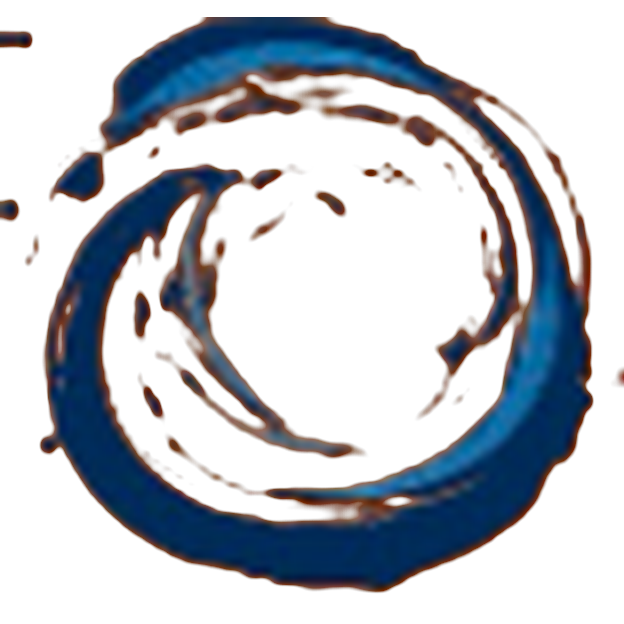
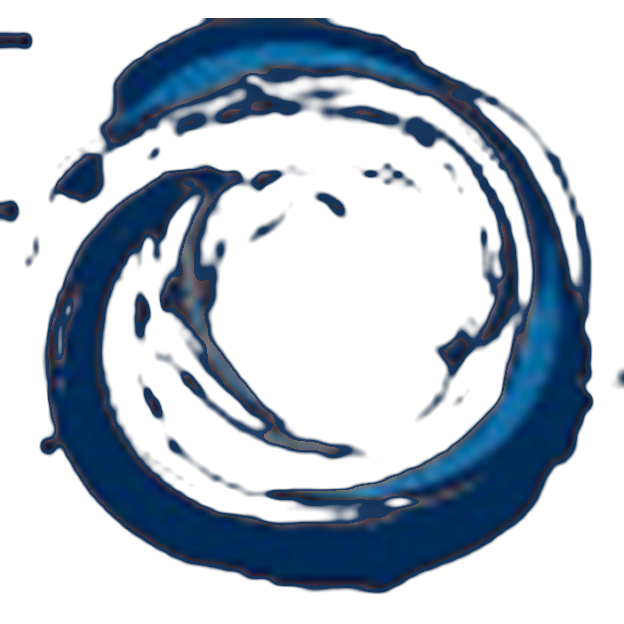
Spirale pulita (no alone arancione) + hero sempre visibile + caroselli
- Spirale ri-estratta senza frangia arancione: bordi navy puliti, nessun
  alone in caricamento e nell'hero (mantiene la texture reale)
- Hero: la spirale resta centrata e SEMPRE interamente visibile mentre ruota
  (non finisce più sotto la barra in alto); nome e CTA si rivelano sotto
- "In evidenza" e "Le categorie" ora sono caroselli a scorrimento infinito
  (direzioni opposte, pausa al hover)

diff --git a/src/app/page.tsx b/src/app/page.tsx
@@ -2,7 +2,8 @@ import Image from "next/image";
 import Link from "next/link";
 import { Reveal } from "@/components/Reveal";
 import { HeroScroll } from "@/components/HeroScroll";
-import { featuredWorks } from "@/lib/gallery";
+import { Marquee } from "@/components/Marquee";
+import { works } from "@/lib/gallery";
 import { categories, site } from "@/lib/site";
 import { blurFor } from "@/lib/blur";
 import { ParallaxImage } from "@/components/ParallaxImage";
@@ -33,9 +34,9 @@ export default function Home() {
         </Reveal>
       </section>
 
-      {/* ——— IN EVIDENZA ——— */}
-      <section className="wrap pb-8">
-        <Reveal className="mb-10 flex items-end justify-between gap-4">
+      {/* ——— IN EVIDENZA (carosello) ——— */}
+      <section className="overflow-hidden py-8">
+        <Reveal className="wrap mb-10 flex items-end justify-between gap-4">
           <div>
             <p className="eyebrow">Selezione</p>
             <h2 className="mt-2 font-display text-4xl text-ink sm:text-5xl">
@@ -44,95 +45,81 @@ export default function Home() {
           </div>
           <Link
             href="/portfolio"
-            className="link-underline hidden shrink-0 font-sans text-sm text-ink/80 hover:text-ink sm:block"
+            className="link-underline shrink-0 font-sans text-sm text-ink/80 hover:text-ink"
           >
             Tutte le opere →
           </Link>
         </Reveal>
 
-        <div className="grid grid-cols-2 gap-3 sm:gap-5 lg:grid-cols-4">
-          {featuredWorks.slice(0, 4).map((w, i) => (
-            <Reveal
+        <Marquee speed={70}>
+          {works.map((w) => (
+            <Link
               key={w.id}
-              as="article"
-              delay={i * 0.08}
-              className={i === 0 ? "col-span-2 lg:col-span-1" : ""}
+              href="/portfolio"
+              className="group relative block w-[230px] shrink-0 overflow-hidden rounded-lg bg-ink/10 sm:w-[280px]"
+              aria-label={w.title}
             >
-              <Link
-                href="/portfolio"
-                className="group relative block overflow-hidden rounded-lg bg-ink/10 ring-1 ring-ink/10"
-              >
-                <div
-                  className={`relative ${i === 0 ? "aspect-square lg:aspect-[3/4]" : "aspect-[3/4]"}`}
-                >
-                  <Image
-                    src={w.src}
-                    alt={`${w.title}, ${w.base}`}
-                    fill
-                    sizes="(max-width: 1024px) 50vw, 25vw"
-                    placeholder={blurFor(w.src) ? "blur" : "empty"}
-                    blurDataURL={blurFor(w.src)}
-                    className="object-cover transition-transform duration-700 group-hover:scale-105"
-                  />
-                  <div className="absolute inset-0 bg-gradient-to-t from-ink/85 via-ink/10 to-transparent" />
-                  <div className="absolute inset-x-0 bottom-0 p-4 text-paper">
-                    <p className="font-display text-2xl leading-tight">{w.title}</p>
-                    <p className="mt-0.5 font-sans text-xs text-paper/80">
-                      {w.reference ?? w.base}
-                    </p>
-                  </div>
+              <div className="relative aspect-[3/4]">
+                <Image
+                  src={w.src}
+                  alt={`${w.title}, ${w.base}`}
+                  fill
+                  sizes="280px"
+                  placeholder={blurFor(w.src) ? "blur" : "empty"}
+                  blurDataURL={blurFor(w.src)}
+                  className="object-cover transition-transform duration-700 group-hover:scale-105"
+                />
+                <div className="absolute inset-0 bg-gradient-to-t from-ink/85 via-ink/10 to-transparent" />
+                <div className="absolute inset-x-0 bottom-0 p-4 text-paper">
+                  <p className="font-display text-2xl leading-tight">{w.title}</p>
+                  <p className="mt-0.5 font-sans text-xs text-paper/80">
+                    {w.reference ?? w.base}
+                  </p>
                 </div>
-              </Link>
-            </Reveal>
+              </div>
+            </Link>
           ))}
-        </div>
-        <Link
-          href="/portfolio"
-          className="mt-8 block text-center font-sans text-sm text-ink underline sm:hidden"
-        >
-          Tutte le opere →
-        </Link>
+        </Marquee>
       </section>
 
-      {/* ——— CATEGORIE ——— */}
-      <section className="wrap py-20 sm:py-28">
-        <Reveal className="mb-10">
+      {/* ——— CATEGORIE (carosello, direzione opposta) ——— */}
+      <section className="overflow-hidden py-20 sm:py-28">
+        <Reveal className="wrap mb-10">
           <p className="eyebrow">Cosa personalizzo</p>
           <h2 className="mt-2 font-display text-4xl text-ink sm:text-5xl">
             Le categorie
           </h2>
         </Reveal>
-        <div className="grid gap-4 sm:grid-cols-2 lg:grid-cols-4">
-          {categories.map((c, i) => (
-            <Reveal key={c.slug} as="article" delay={i * 0.06}>
-              <Link
-                href={`/portfolio?cat=${c.slug}`}
-                className="group flex h-full flex-col overflow-hidden rounded-lg bg-ink text-paper"
-              >
-                <div className="relative aspect-[4/3] overflow-hidden">
-                  <Image
-                    src={categoryImage[c.slug]}
-                    alt={c.label}
-                    fill
-                    sizes="(max-width: 640px) 100vw, (max-width: 1024px) 50vw, 25vw"
-                    placeholder={blurFor(categoryImage[c.slug]) ? "blur" : "empty"}
-                    blurDataURL={blurFor(categoryImage[c.slug])}
-                    className="object-cover opacity-90 transition-transform duration-700 group-hover:scale-105"
-                  />
-                </div>
-                <div className="flex flex-1 flex-col p-5">
-                  <h3 className="font-display text-2xl text-paper">{c.label}</h3>
-                  <p className="mt-2 text-pretty font-sans text-sm leading-relaxed text-paper/70">
-                    {c.blurb}
-                  </p>
-                  <span className="mt-4 font-sans text-sm text-flame-soft">
-                    Scopri →
-                  </span>
-                </div>
-              </Link>
-            </Reveal>
+        <Marquee reverse speed={55}>
+          {categories.map((c) => (
+            <Link
+              key={c.slug}
+              href={`/portfolio?cat=${c.slug}`}
+              className="group flex w-[280px] shrink-0 flex-col overflow-hidden rounded-lg bg-ink text-paper sm:w-[340px]"
+            >
+              <div className="relative aspect-[4/3] overflow-hidden">
+                <Image
+                  src={categoryImage[c.slug]}
+                  alt={c.label}
+                  fill
+                  sizes="340px"
+                  placeholder={blurFor(categoryImage[c.slug]) ? "blur" : "empty"}
+                  blurDataURL={blurFor(categoryImage[c.slug])}
+                  className="object-cover opacity-90 transition-transform duration-700 group-hover:scale-105"
+                />
+              </div>
+              <div className="flex flex-1 flex-col p-5">
+                <h3 className="font-display text-2xl text-paper">{c.label}</h3>
+                <p className="mt-2 text-pretty font-sans text-sm leading-relaxed text-paper/70">
+                  {c.blurb}
+                </p>
+                <span className="mt-4 font-sans text-sm text-flame-soft">
+                  Scopri →
+                </span>
+              </div>
+            </Link>
           ))}
-        </div>
+        </Marquee>
       </section>
 
       {/* ——— CHI SONO (teaser, sezione navy) ——— */}

diff --git a/src/components/HeroScroll.tsx b/src/components/HeroScroll.tsx
@@ -13,10 +13,9 @@ export function HeroScroll() {
     offset: ["start start", "end start"],
   });
 
-  // La spirale ruota e si rimpicciolisce salendo mentre si scrolla
+  // La spirale ruota e si rimpicciolisce restando SEMPRE al centro e interamente visibile
   const rotate = useTransform(scrollYProgress, [0, 1], [0, 220]);
-  const scale = useTransform(scrollYProgress, [0, 1], [1.1, 0.42]);
-  const spiralY = useTransform(scrollYProgress, [0, 1], ["0%", "-38%"]);
+  const scale = useTransform(scrollYProgress, [0, 1], [1, 0.6]);
   // Il nome si rivela con un wipe da sinistra
   const wordClip = useTransform(
     scrollYProgress,
@@ -24,78 +23,82 @@ export function HeroScroll() {
     ["inset(0 100% 0 0)", "inset(0 0% 0 0)"],
   );
   const wordOpacity = useTransform(scrollYProgress, [0.12, 0.4], [0, 1]);
-  const revealOpacity = useTransform(scrollYProgress, [0.55, 0.85], [0, 1]);
-  const revealY = useTransform(scrollYProgress, [0.55, 0.85], [30, 0]);
+  const revealOpacity = useTransform(scrollYProgress, [0.5, 0.82], [0, 1]);
+  const revealY = useTransform(scrollYProgress, [0.5, 0.82], [28, 0]);
   const hintOpacity = useTransform(scrollYProgress, [0, 0.12], [1, 0]);
 
   return (
     <section ref={ref} className="relative h-[240vh]">
-      <div className="sticky top-0 flex h-screen flex-col items-center justify-center overflow-hidden">
+      <div className="sticky top-0 h-[100svh] overflow-hidden">
         {/* spirali di sfondo che ruotano lente */}
         <div
           aria-hidden
-          className="pointer-events-none absolute -left-[20%] top-[8%] h-[55vh] w-[55vh] opacity-[0.10]"
+          className="pointer-events-none absolute -left-[20%] top-[6%] h-[50vh] w-[50vh] opacity-[0.10]"
         >
           <Image src="/brand/spiral.png" alt="" fill className="spin-slow object-contain" />
         </div>
         <div
           aria-hidden
-          className="pointer-events-none absolute -right-[18%] bottom-[6%] h-[48vh] w-[48vh] opacity-[0.10]"
+          className="pointer-events-none absolute -right-[18%] bottom-[4%] h-[44vh] w-[44vh] opacity-[0.10]"
         >
           <Image src="/brand/spiral.png" alt="" fill className="spin-slow-rev object-contain" />
         </div>
 
-        {/* Spirale protagonista (la spirale reale del brand) */}
-        <motion.div
-          style={reduce ? undefined : { rotate, scale, y: spiralY }}
-          className="relative h-[46vh] max-h-[420px] w-[46vh] max-w-[420px] drop-shadow-[0_10px_40px_rgba(10,42,76,0.22)]"
-        >
-          <Image
-            src="/brand/spiral.png"
-            alt="MementoLab"
-            fill
-            priority
-            sizes="46vh"
-            className="object-contain"
-          />
-        </motion.div>
+        {/* Spirale protagonista — centrata nella parte alta, mai sotto la barra */}
+        <div className="absolute inset-x-0 top-[9%] flex h-[52%] items-center justify-center">
+          <motion.div
+            style={reduce ? undefined : { rotate, scale }}
+            className="relative h-full w-auto"
+          >
+            <Image
+              src="/brand/spiral.png"
+              alt="MementoLab"
+              width={420}
+              height={420}
+              priority
+              sizes="(max-width: 640px) 62vw, 40vh"
+              className="h-full w-auto object-contain drop-shadow-[0_10px_40px_rgba(10,42,76,0.18)]"
+            />
+          </motion.div>
+        </div>
 
-        {/* Wordmark che si rivela */}
-        <motion.div
-          style={reduce ? undefined : { clipPath: wordClip, opacity: wordOpacity }}
-          className="relative mt-6 h-[10vh] max-h-20 w-[min(80vw,640px)]"
-        >
-          <Image
-            src="/brand/wordmark-full.png"
-            alt="MementoLab"
-            fill
-            priority
-            className="object-contain"
-          />
-        </motion.div>
+        {/* Blocco che si rivela: nome + claim + CTA */}
+        <div className="absolute inset-x-0 top-[58%] flex flex-col items-center px-6 text-center">
+          <motion.div
+            style={reduce ? undefined : { clipPath: wordClip, opacity: wordOpacity }}
+            className="relative h-14 w-[min(82vw,560px)] sm:h-16"
+          >
+            <Image
+              src="/brand/wordmark-full.png"
+              alt="MementoLab"
+              fill
+              priority
+              className="object-contain"
+            />
+          </motion.div>
 
-        {/* Tagline + CTA rivelate nella seconda metà */}
-        <motion.div
-          style={reduce ? undefined : { opacity: revealOpacity, y: revealY }}
-          className="mt-7 flex flex-col items-center px-6 text-center"
-        >
-          <p className="max-w-md text-balance font-display text-2xl leading-tight text-ink sm:text-3xl">
-            Capi unici dipinti a mano. Ogni pezzo è un&apos;opera irripetibile.
-          </p>
-          <div className="mt-7 flex flex-wrap justify-center gap-3">
-            <Link href="/portfolio" className="btn-primary">
-              Esplora il portfolio
-            </Link>
-            <Link href="/commissioni" className="btn-ghost">
-              Richiedi un pezzo
-            </Link>
-          </div>
-        </motion.div>
+          <motion.div
+            style={reduce ? undefined : { opacity: revealOpacity, y: revealY }}
+            className="mt-6 flex flex-col items-center"
+          >
+            <p className="max-w-md text-balance font-display text-2xl leading-tight text-ink sm:text-3xl">
+              Capi unici dipinti a mano. Ogni pezzo è un&apos;opera irripetibile.
+            </p>
+            <div className="mt-6 flex flex-wrap justify-center gap-3">
+              <Link href="/portfolio" className="btn-primary">
+                Esplora il portfolio
+              </Link>
+              <Link href="/commissioni" className="btn-ghost">
+                Richiedi un pezzo
+              </Link>
+            </div>
+          </motion.div>
+        </div>
 
         {/* Hint scroll */}
         <motion.div
           style={reduce ? undefined : { opacity: hintOpacity }}
-          className="absolute bottom-8 flex flex-col items-center gap-2 text-ink/70"
+          className="absolute bottom-8 left-1/2 flex -translate-x-1/2 flex-col items-center gap-2 text-ink/70"
         >
           <span className="font-sans text-[0.7rem] uppercase tracking-wide2">
             Scorri

diff --git a/src/components/Marquee.tsx b/src/components/Marquee.tsx
@@ -1,0 +1,36 @@
+"use client";
+
+import type { ReactNode } from "react";
+
+// Carosello a scorrimento infinito (auto). Si mette in pausa al passaggio del mouse.
+// Il contenuto viene duplicato per un loop senza salti.
+export function Marquee({
+  children,
+  reverse = false,
+  speed = 45,
+  className = "",
+}: {
+  children: ReactNode;
+  reverse?: boolean;
+  speed?: number;
+  className?: string;
+}) {
+  return (
+    <div className={`group relative overflow-hidden ${className}`}>
+      <div
+        className="flex w-max animate-marquee gap-4 group-hover:[animation-play-state:paused] sm:gap-5"
+        style={{
+          animationDuration: `${speed}s`,
+          animationDirection: reverse ? "reverse" : "normal",
+        }}
+      >
+        <div className="flex shrink-0 gap-4 sm:gap-5" aria-hidden={false}>
+          {children}
+        </div>
+        <div className="flex shrink-0 gap-4 sm:gap-5" aria-hidden>
+          {children}
+        </div>
+      </div>
+    </div>
+  );
+}

diff --git a/src/app/globals.css b/src/app/globals.css
@@ -79,6 +79,20 @@
   .spin-slow-rev {
     animation: spin 90s linear infinite reverse;
   }
+  .animate-marquee {
+    animation-name: marquee;
+    animation-timing-function: linear;
+    animation-iteration-count: infinite;
+  }
+}
+
+@keyframes marquee {
+  from {
+    transform: translateX(0);
+  }
+  to {
+    transform: translateX(-50%);
+  }
 }
 
 @media (prefers-reduced-motion: reduce) {